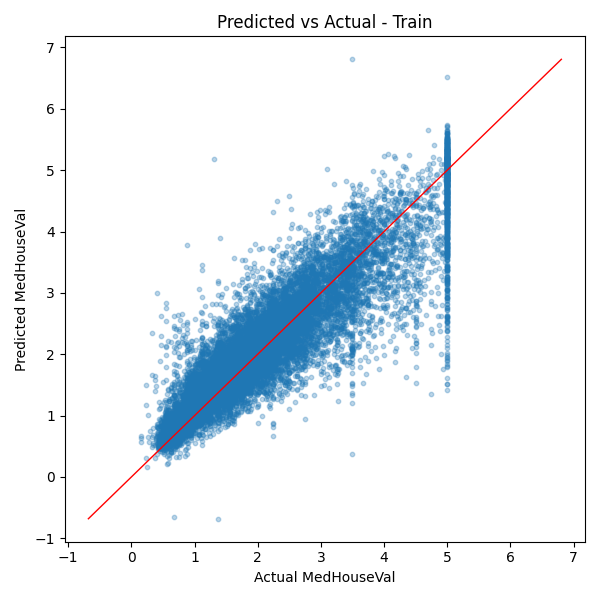
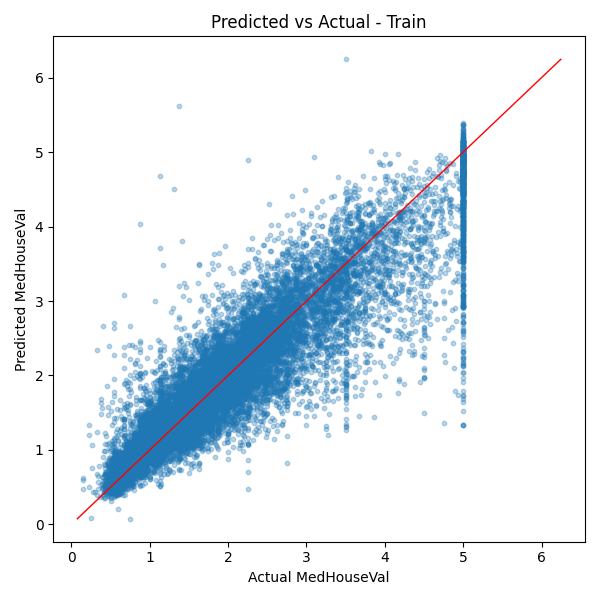
Adjusted hidden layers, described how to run code
Adjusted the hidden layer sizes to avoid potential overfitting from using (128,64). Used the test and train metrics to find a reasonable fit. (12,4) seemed to give the best R2, MAE, and MAPE metrics on the test data. Added instructions to run the code in readme file. Let me know if you think we should make any more changes or adjustments.

diff --git a/src/CA_housing_nn.py b/src/CA_housing_nn.py
@@ -5,6 +5,9 @@ from sklearn.neural_network import MLPRegressor
 from sklearn.metrics import r2_score, mean_absolute_error, mean_absolute_percentage_error
 import numpy as np
 import pandas as pd
+
+import matplotlib
+matplotlib.use("MacOSX")
 import matplotlib.pyplot as plt
 
 # Load California Housing dataset
@@ -30,11 +33,12 @@ X_test_scaled = scaler.transform(X_test)
 
 # MLPRegressor with Early Stopping
 mlp = MLPRegressor(
-    hidden_layer_sizes=(128, 64),
+    hidden_layer_sizes=(12, 4),
     activation="relu",
     max_iter=500,
     early_stopping=True,        # <-- early stopping ON
     validation_fraction=0.2,    # uses 10% of TRAIN as internal validation
+    random_state=42
 )
 
 mlp.fit(X_train_scaled, y_train)
@@ -55,7 +59,7 @@ train_metrics_df = pd.DataFrame([
     metrics_row("train", y_train, y_pred_train)
 ])
 
-print("===== Metrics =====")
+print("===== Train Metrics =====")
 print(train_metrics_df.to_string(index=False))
 
 # Train predictions vs actual
@@ -98,3 +102,12 @@ scatter_with_reference(
 # Save test scatterplot
 plt.savefig("figs/test_actual_vs_pred.png")
 plt.show()
+
+# Loss curve (adjusting hidden layer size)
+plt.figure(figsize=(8,5))
+plt.plot(mlp.loss_curve_)
+plt.xlabel("Epoch")
+plt.ylabel("Training Loss")
+plt.title("Training Loss vs Epoch (sklearn MLP)")
+plt.grid(True)
+plt.show() 

diff --git a/README.md b/README.md
@@ -2,6 +2,13 @@
 ## Ping pong assignment
 Jiben Gigi and Matt Gostkowski
 
-For this assignment, we will practice GitHub collaboration to train a neural network on the California housing dataset. We will also use train and test predictions to evaluate model fit and the best hyperparameters. 
+For this assignment, we will practice GitHub collaboration to train a neural network on the California housing dataset. This neural network will use the numerical predictors available in the CA housing dataset to predict MedHouseVal. We will also use train and test predictions to evaluate model fit and tune hyperparameters.  
 
-To run the code:
+### To run the code:
+First, make sure you are in the correct working directory. 
+
+Then, install the packages in the requirements.txt file:
+pip install -r requirements.txt
+
+Run the code:
+python .\src\CA_housing_nn.py
